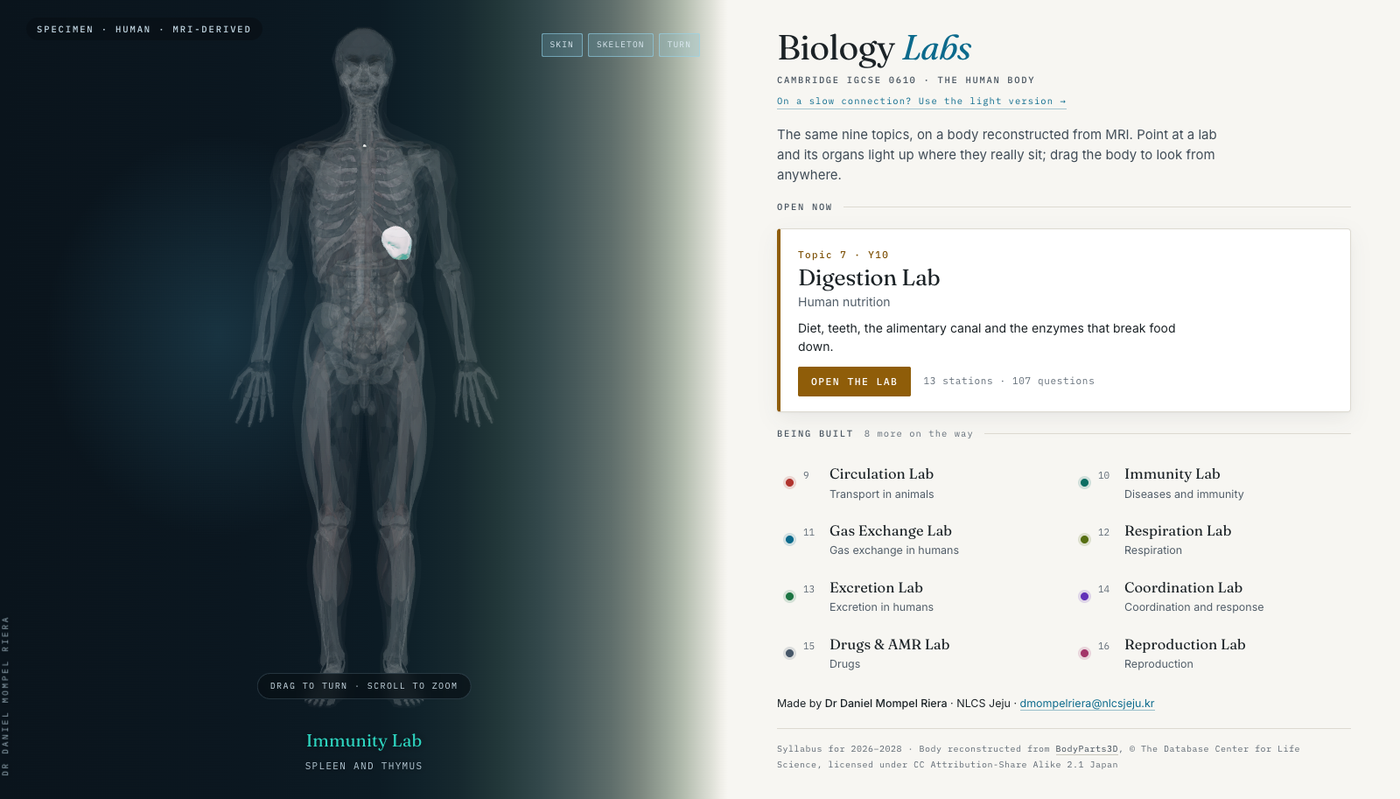
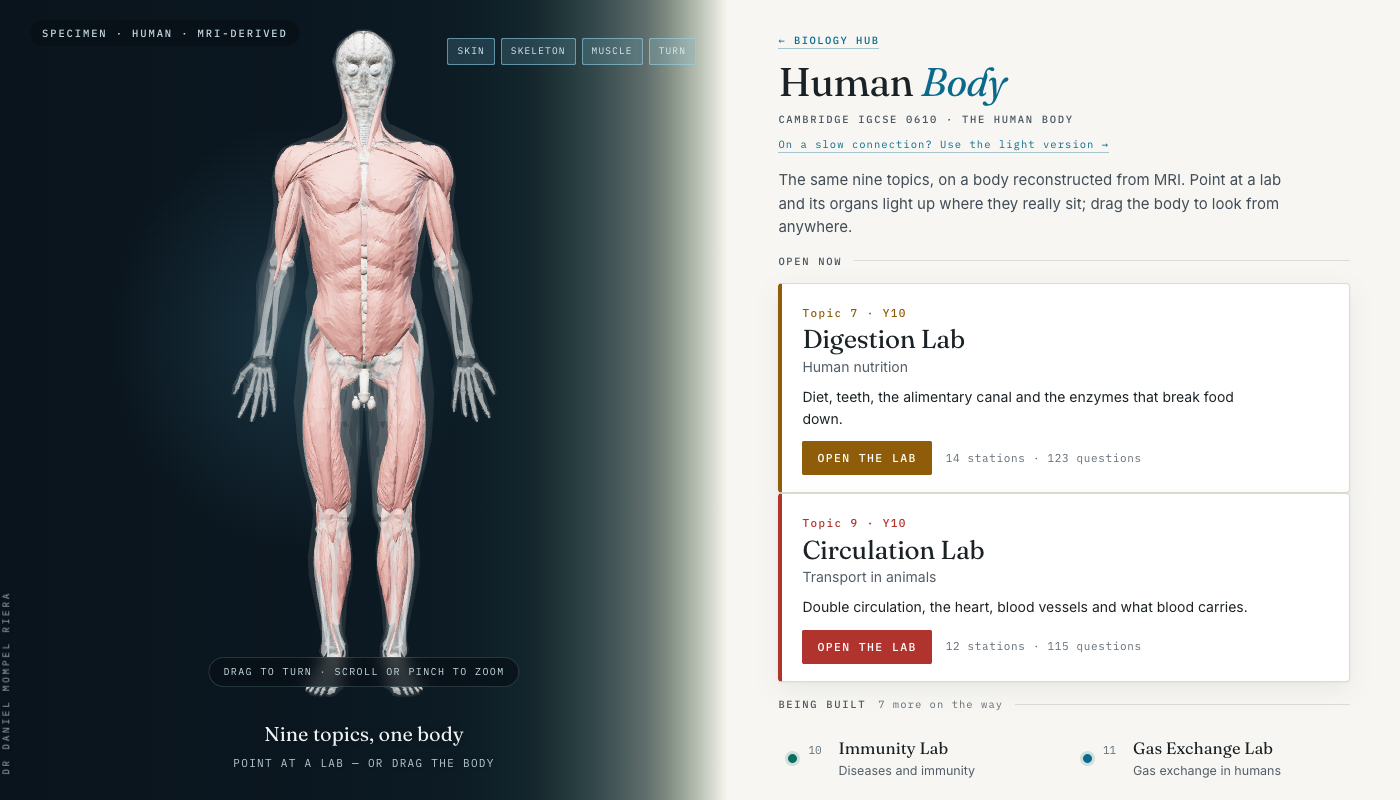
Human Body: its own name, three.js pinned by its hashes, pinch to zoom
- The heading says "Human Body" (it said "Biology Labs"), on both pages
  (Daniel, 1 Oct 2026).
- Security (1 Oct 2026): three.js comes from jsDelivr, and the import map now
  carries each of its five files' SHA-384, so a changed file is refused instead
  of run. The light version still works if that ever happens.
- The 3D hint says "Drag to turn · scroll or pinch to zoom" (a finger cannot
  scroll to zoom); the Circulation Lab is listed as live.
- README pictures retaken; the model-build inputs downloaded for a rebuild are
  ignored by git.

diff --git a/index.html b/index.html
@@ -12,7 +12,7 @@
 <link rel="preconnect" href="https://fonts.googleapis.com">
 <link rel="preconnect" href="https://fonts.gstatic.com" crossorigin>
 <link rel="stylesheet" href="https://fonts.googleapis.com/css2?family=Fraunces:ital,opsz,wght@0,9..144,300..600;1,9..144,300..600&family=IBM+Plex+Mono:wght@400;500&family=Inter:wght@400;500&display=swap">
-<link rel="stylesheet" href="css/hub.css?v=1790516583">
+<link rel="stylesheet" href="css/hub.css?v=1790781941">
 <style>
   /* the 3D stage replaces the flat plate, everything else is the hub's */
   #stage{position:absolute;inset:0;z-index:1}
@@ -56,7 +56,7 @@
        Give them a band of their own and start the specimen below it. */
     .toggles{top:10px;left:50%;right:auto;transform:translateX(-50%);justify-content:center}
     #stage{top:50px}
-    /* the touch wording is longer than the frame is wide, so let it wrap */
+    /* the hint is longer than a phone's frame is wide, so let it wrap */
     .hint{white-space:normal;max-width:min(86%,300px);text-align:center;line-height:1.6;
           font-size:9.5px;letter-spacing:.1em}
   }
@@ -78,7 +78,7 @@
         <button class="tg" id="tgMus"   aria-pressed="true">Muscle</button>
         <button class="tg" id="tgSpin"  aria-pressed="true">Turn</button>
       </div>
-      <span class="hint">Drag to turn · scroll to zoom</span>
+      <span class="hint">Drag to turn · scroll or pinch to zoom</span>
     </div>
 
       <span class="wm" aria-hidden="true">Dr Daniel Mompel Riera</span>
@@ -88,7 +88,7 @@
   <section class="sheet">
     <header class="masthead">
       <a class="up" href="https://nlcsbiology.com/biology-hub/" title="Every door: Foundations, the human body, Plants, Life on Earth">← Biology Hub</a>
-      <h1>Biology <em>Labs</em></h1>
+      <h1>Human <em>Body</em></h1>
       <span class="eyebrow">Cambridge IGCSE 0610 · the human body</span>
       <a class="switch" href="plate.html">On a slow connection? Use the light version</a>
     </header>
@@ -113,15 +113,25 @@
 
 <div class="toast" id="toast" role="status" aria-live="polite"></div>
 
-<script src="js/data/labs.js?v=1790516583"></script>
-<script src="js/progress.js?v=1790516583"></script>
-<script src="js/topics.js?v=1790516583"></script>
+<script src="js/data/labs.js?v=1790781941"></script>
+<script src="js/progress.js?v=1790781941"></script>
+<script src="js/topics.js?v=1790781941"></script>
+<!-- three.js, from jsDelivr. "integrity" holds each file's SHA-384, for every file the 3D body loads (GLTFLoader also
+     loads utils/BufferGeometryUtils.js): a browser refuses a file that differs, and the light version still works.
+     A new version needs new hashes: curl -s <address> | openssl dgst -sha384 -binary | openssl base64 -A -->
 <script type="importmap">
 {"imports":{
   "three":"https://cdn.jsdelivr.net/npm/three@0.160.0/build/three.module.js",
   "three/addons/":"https://cdn.jsdelivr.net/npm/three@0.160.0/examples/jsm/"
+},
+"integrity":{
+  "https://cdn.jsdelivr.net/npm/three@0.160.0/build/three.module.js":"sha384-61S/Nu32S3E5+n+KpCOTb2eRYps6fVKm+9Gz1QBvSePFthb46f063Aa/qe/lykFZ",
+  "https://cdn.jsdelivr.net/npm/three@0.160.0/examples/jsm/loaders/GLTFLoader.js":"sha384-oxY9vSeh7Mrt5WmhN8xfWoDRnmoW9krEiRBY7vJKaK90jMUidM0fhbUwcblpBgTu",
+  "https://cdn.jsdelivr.net/npm/three@0.160.0/examples/jsm/utils/BufferGeometryUtils.js":"sha384-jHGXS4+FuVOBnZkNme2ury3Ccg5DWDLYK22xX/WGdZCZsjRM4J+3n6Qc4CXx1Hjf",
+  "https://cdn.jsdelivr.net/npm/three@0.160.0/examples/jsm/controls/OrbitControls.js":"sha384-qlO/ZugKPxAQUAvTlQoo0QECzxJIJySZmCF/DHdb2Xn/hHndFwX/vfUAC9Hbk6LP",
+  "https://cdn.jsdelivr.net/npm/three@0.160.0/examples/jsm/environments/RoomEnvironment.js":"sha384-ZGqh+dJjt6z9NHsWYYt+TPDFj8y+2If7naI6a6AkkyNZyH51CVS3HTWFh0njp4k6"
 }}
 </script>
-<script type="module" src="js/body3d.js?v=1790516583"></script>
+<script type="module" src="js/body3d.js?v=1790781941"></script>
 </body>
 </html>

diff --git a/plate.html b/plate.html
@@ -12,7 +12,7 @@
 <link rel="preconnect" href="https://fonts.googleapis.com">
 <link rel="preconnect" href="https://fonts.gstatic.com" crossorigin>
 <link rel="stylesheet" href="https://fonts.googleapis.com/css2?family=Fraunces:ital,opsz,wght@0,9..144,300..600;1,9..144,300..600&family=IBM+Plex+Mono:wght@400;500&family=Inter:wght@400;500&display=swap">
-<link rel="stylesheet" href="css/hub.css?v=1790516583">
+<link rel="stylesheet" href="css/hub.css?v=1790781941">
 </head>
 <body>
 
@@ -427,7 +427,7 @@
 
     <header class="masthead">
       <a class="up" href="https://nlcsbiology.com/biology-hub/" title="Every door: Foundations, the human body, Plants, Life on Earth">← Biology Hub</a>
-      <h1>Biology <em>Labs</em></h1>
+      <h1>Human <em>Body</em></h1>
       <span class="eyebrow">Cambridge IGCSE 0610 · the human body</span>
       <a class="switch" href="index.html">See the body in 3D</a>
     </header>
@@ -454,9 +454,9 @@
 
 <div class="toast" id="toast" role="status" aria-live="polite"></div>
 
-<script src="js/data/labs.js?v=1790516583"></script>
-<script src="js/progress.js?v=1790516583"></script>
-<script src="js/topics.js?v=1790516583"></script>
-<script src="js/hub.js?v=1790516583"></script>
+<script src="js/data/labs.js?v=1790781941"></script>
+<script src="js/progress.js?v=1790781941"></script>
+<script src="js/topics.js?v=1790781941"></script>
+<script src="js/hub.js?v=1790781941"></script>
 </body>
 </html>

diff --git a/js/topics.js b/js/topics.js
@@ -1,8 +1,10 @@
 /* ============================================================
    Human Body Hub — the topic register
    ------------------------------------------------------------
-   THIS IS THE ONLY FILE YOU EDIT WHEN A NEW LAB IS FINISHED.
-   Give the topic a `url`, change `status` to "live", done.
+   WHEN A NEW LAB IS FINISHED, this is the file to edit HERE: give the topic a `url` and
+   change `status` to "live". The lab also needs its row in labs-shared/labs.json, the front
+   door's js/shelves.js, the labs script's LABS and the sitemap: docs/BUILD-NOTES.md,
+   "Adding a lab", has the list.
 
    id      unique key
    no      Cambridge 0610 topic number, as taught here

diff --git a/css/hub.css b/css/hub.css
@@ -1,5 +1,5 @@
 /* ============================================================
-   Biology Labs — the hub
+   Human Body Hub — the shelf
    Left: the specimen, on dark, so the lit organ carries.
    Right: paper, where the reading happens.
    The two are one surface — the ground slides from ink to paper

diff --git a/docs/BUILD-NOTES.md b/docs/BUILD-NOTES.md
@@ -1,6 +1,6 @@
 # Human Body Hub — the shelf
 
-The landing page for the IGCSE Biology revision labs.
+One shelf of the Biology Hub: topics 7 and 9–16 of IGCSE 0610 on the human body.
 
 The screen is one surface, split in two: on the left the specimen lies on a dark
 slab so a lit organ actually glows; on the right it dissolves into paper, where
@@ -15,8 +15,8 @@ the flat plate at `/plate.html`.
 
 ## Adding a lab
 
-Edit **`js/topics.js`**. Nothing else. Give the topic a `url` and set
-`status: 'live'`:
+In this repository, edit **`js/topics.js`**: give the topic a `url` and set
+`status: 'live'` (its `detail` is only a fallback — the size comes from the register):
 
 ```js
 { id:'circulation', no:9, year:'Y10', side:'l', sys:'circulation', anchor:'o-heart',
@@ -34,8 +34,21 @@ Edit **`js/topics.js`**. Nothing else. Give the topic a `url` and set
 
 Each system has **two** colours in `css/hub.css`: `--g-<system>` is the glow on
 the dark side, `--i-<system>` is the same hue made readable on paper. Add both.
-If the anchor is a new organ, give it a display name in the `LANDMARK` map in
-`js/hub.js` so the pinned label reads properly.
+All nine systems have theirs already. A new SYSTEM (not a new organ) also needs a
+`LANDMARK` entry in `js/hub.js`, and `LANDMARK` and `GLOW` entries in `js/body3d.js`;
+a new anchor organ needs only its `o-<organ>` id in `body.svg`.
+
+Outside this repository, a new lab also needs:
+
+1. its row in `labs-shared/labs.json` — the lab's own build writes its station and
+   question counts there; then `node tools/stamp.mjs` here copies it in;
+2. on the front door (biology-hub `js/shelves.js`): the shelf door's `detail`
+   ("2 labs open · 7 being built") and an entry in `open`, then that repository's
+   `tools/deploy.mjs`;
+3. a row in the labs script's `LABS` (biology-hub `apps-script/Code.gs`), which
+   Daniel pastes;
+4. the sitemap (`root-site/sitemap.xml`) and `PUBLISHED` in the workspace's
+   `tools/status.mjs`.
 
 ---
 
@@ -45,13 +58,14 @@ If the anchor is a new organ, give it a display name in the `LANDMARK` map in
 drawing of one. Every organ carries `data-sys` (its system) and an
 `id` of `o-<organ>`, so CSS can light one system and dim the rest.
 
-The plate is **inlined into `index.html`** so the page works even when it is
-opened straight from the file system, with no web server. After editing
-`body.svg`, run:
-
-```
-python3 tools/inline-plate.py
-```
+The plate is **inlined into `plate.html`** (between its `PLATE:START` and
+`PLATE:END` markers) so that page works even when it is opened straight from the
+file system, with no web server. `index.html` is the 3D body and has no plate.
+After editing `body.svg`, the plate in `plate.html` has to be replaced with it.
+`tools/inline-plate.py` was written to do that, but it still opens `index.html`,
+finds no markers and stops (a known fault, not yet fixed): until it is pointed at
+`plate.html`, copy the new SVG between the markers by hand, then run
+`node tools/stamp.mjs`.
 
 Organ paintings live in `assets/anatomy/organs/` as separate PNGs, positioned
 by the SVG at their true anatomical coordinates.
@@ -69,12 +83,16 @@ Keep the footer credit if you add more Servier art.
 
 ## Publishing
 
-The hub is a plain static site — no build step beyond `inline-plate.py`. It is
-published from the **`human-body-hub`** repository, `main` branch, by GitHub
-Pages:
+The hub is a plain static site. Before every push run `node tools/stamp.mjs`: it
+writes every `?v=` in `index.html` and `plate.html`, and `version.txt`, from one
+value (leaving `body.glb?v=` alone: re-downloading 9 MB on every deploy is not
+free), and copies in `labs-shared/labs.json` and `progress.js`. Never bump the
+stamps by hand. It is published from the **`human-body-hub`** repository, `main`
+branch, by GitHub Pages:
 
 - `nlcsbiology.com/human-body-hub/` → this hub
-- `nlcsbiology.com/digestion-lab/` → the first lab
+- `nlcsbiology.com/digestion-lab/` → topic 7, the first lab
+- `nlcsbiology.com/circulation-lab/` → topic 9
 - `nlcsbiology.com/<next-lab>/` → each one after that
 
 Each lab is its own repository. They are linked by absolute URL in both
@@ -91,14 +109,19 @@ index.html                the front door: the 3D body
 plate.html                the light version: the flat anatomical plate,
                           inlined so it also opens from the file system
 css/hub.css               design tokens, the plate treatment, the index
-js/topics.js              THE TOPIC REGISTER — the file you edit
+js/topics.js              the topic register (see Adding a lab)
 js/hub.js                 plate.html: list, hotspots, lighting, pinned label, idle tour
 js/body3d.js              index.html: the 3D scene, picking, lighting, idle tour
-assets/model/body.glb     the MRI body, 40 organ groups
+js/progress.js            GENERATED by tools/stamp.mjs: a copy of labs-shared/progress.js
+js/data/labs.js, .json    GENERATED by tools/stamp.mjs from labs-shared/labs.json
+assets/model/body.glb     the MRI body: 42 organ groups plus skin and skeleton
+assets/model/body_manifest.json  what build_glb.py put in it (no page reads it)
 .nojekyll                 stops GitHub Pages running the files through Jekyll
 assets/anatomy/body.svg   the specimen (source of the inlined plate)
 assets/anatomy/organs/    the organ paintings
-tools/inline-plate.py     re-inlines body.svg into index.html
+tools/stamp.mjs           the step before every push (see Publishing)
+tools/inline-plate.py     meant to re-inline body.svg into plate.html (see The anatomical plate)
+tools/model-build/        rebuilds body.glb (its README has the steps)
 
 README.md                 the front page
 docs/link-back.md         the one line that points a lab back here
@@ -127,13 +150,14 @@ It cannot be opened by double-clicking the file, because browsers block module
 scripts and model loading from `file://`. `plate.html` can.
 
 ### Where the body comes from
-`assets/model/body.glb` (6.2 MB, 345,000 triangles, 40 organ groups) is built
+`assets/model/body.glb` (8.9 MB, about 516,000 triangles, 42 organ groups plus
+skin and skeleton) is built
 from **BodyParts3D v3.0** — 3D models segmented from a real full-body MRI by
 the Database Center for Life Science in Japan. Every organ is a separate mesh
 and they all share one coordinate frame, so nothing is positioned by hand: each
 organ sits where it was measured in the body it came from.
 
-Rebuild it with the scripts in the scratch pipeline (`manifest.py`,
+Rebuild it with `tools/model-build/` (steps in its README: `manifest.py`,
 `build_glb.py`); `manifest.py` lists every structure by its FMA identifier, so
 the selection can be checked against the Foundational Model of Anatomy rather
 than taken on trust.
@@ -150,7 +174,7 @@ than taken on trust.
 
 ### What this dataset does not contain
 - **It is a male body.** There are no ovaries, uterus or oviducts, so Topic 16
-  shows the male reproductive system only. The flat plate on `index.html` has
+  shows the male reproductive system only. The flat plate (`plate.html`) has
   the female organs (from Servier).
 - **No spinal cord** — only the central canal, which would be misleading to
   label as the cord, so it is left out. Topic 14 shows brain, eyes, optic

diff --git a/README.md b/README.md
@@ -17,7 +17,7 @@ by **Dr Daniel Mompel Riera** · NLCS Jeju
 
 </div>
 
-![The hub: a body reconstructed from MRI, with the gas exchange system lit](docs/img/hub-3d.png)
+![The hub: a body reconstructed from MRI, its muscles over the skeleton, beside the labs that are open](docs/img/hub-3d.png)
 
 ---
 
@@ -30,7 +30,7 @@ the page goes back up.
 | # | Topic | Lab | |
 |:--:|-------|-----|:--:|
 | 7 | Human nutrition | [**Digestion Lab**](https://nlcsbiology.com/digestion-lab/) | 🟢 live |
-| 9 | Transport in animals | Circulation Lab | ⚪ soon |
+| 9 | Transport in animals | [**Circulation Lab**](https://nlcsbiology.com/circulation-lab/) | 🟢 live |
 | 10 | Diseases and immunity | Immunity Lab | ⚪ soon |
 | 11 | Gas exchange in humans | Gas Exchange Lab | ⚪ soon |
 | 12 | Respiration | Respiration Lab | ⚪ soon |
@@ -53,27 +53,34 @@ Chromebook or a school PC.
 ## What is on the page
 
 **The 3D body** — `index.html` — reconstructed from a real MRI scan. Turn it, zoom, and peel
-back skin, skeleton and muscle to reach what lies underneath. 6 MB.
+back skin, skeleton and muscle to reach what lies underneath. 9 MB.
 
 **The flat plate** — `plate.html` — the same nine topics on an anatomical drawing, a few hundred
 kilobytes, for a slow connection or an old device.
+
+![The light version: a flat anatomical plate of the body beside the same labs](docs/img/hub-plate.png)
 
 Left alone, the plate tours the systems by itself, so anyone glancing at the screen sees what
 the body does.
 
 ## For developers
 
-Static files, no build step, no framework.
+Static files, no framework. The one build step is `node tools/stamp.mjs`, before every push.
 
-- **`js/topics.js` is the register** — the only file to edit when a lab is finished. Give the
-  topic a `url`, change `status` to `live`, done. Each entry carries the organ system to light
-  (`sys`) and the organ a label points at (`anchor`).
+- **`js/topics.js` is the topic register.** When a lab is finished, give its topic a `url` and
+  change `status` to `live`. Each entry carries the organ system to light (`sys`) and the organ a
+  label points at (`anchor`). A new lab also needs its row in `labs-shared/labs.json` (its size
+  comes from there), its door on the front door (biology-hub `js/shelves.js`) and a sitemap entry;
+  `docs/BUILD-NOTES.md` has the list.
 - `js/hub.js` reads it and wires the paper side to the specimen. `js/body3d.js` renders the
-  3D body; `plate.html` holds the inlined SVG (`tools/inline-plate.py` puts it there).
+  3D body; `plate.html` holds the plate (`assets/anatomy/body.svg`) inlined.
 - `css/hub.css` is the whole style. `docs/BUILD-NOTES.md` has the detail, and
   `docs/link-back.md` is the recipe for a lab's link back up here.
 
-Bump `version.txt` **and** every `?v=` stamp together — the stamps are the real cache key.
+Before every push, run `node tools/stamp.mjs`. It writes every `?v=` in `index.html` and
+`plate.html`, and `version.txt`, from one value (the stamps are the real cache key), leaving
+`body.glb?v=` alone on purpose; and it copies in `labs-shared/labs.json` and `progress.js`.
+Never bump the stamps by hand.
 
 ## Sources and licences
 

diff --git a/docs/link-back.md b/docs/link-back.md
@@ -4,20 +4,27 @@ The hub links **out** to every live lab on its own — that comes from `url` in
 `js/topics.js` and needs nothing at the lab's end.
 
 For a lab to link **back**, add one line to that lab's `index.html`, inside
-`.hdr__stats` and before the "How to use" button. It reuses the Digestion Lab's
-existing `.hbtn` class, so no CSS changes are needed:
+`.hdr__stats` and before the "How to use" button — one level up, to this shelf.
+It reuses the labs' `.hbtn` class, so no CSS changes are needed:
 
 ```html
 <a class="hbtn" href="https://nlcsbiology.com/human-body-hub/"
-   title="All of the Biology Labs">← All labs</a>
+   title="The human body: every body topic, and this lab">← The body</a>
 ```
 
-**Done in `digestion-lab`** (in the header, and again in the footer line "One of
-the Biology Labs"). This page is the recipe for the next lab.
+and end the footer with the shelf, then the front door:
 
-Remember the two rules the lab repositories run on: bump `version.txt` and the
-`?v=` stamps in the same commit, and never copy `stations.master.js` into the
-repo.
+```html
+One of the <a href="https://nlcsbiology.com/human-body-hub/">Human Body</a> labs ·
+<a href="https://nlcsbiology.com/biology-hub/">Biology Hub</a>
+```
+
+**The Circulation Lab is the example** (`circulation-lab/index.html`); the
+Digestion Lab follows it too (since 30 Sep 2026).
+
+Remember the two rules the lab repositories run on: never bump `version.txt` or
+the `?v=` stamps by hand — the lab's own `node tools/build.mjs` writes them — and
+never copy `stations.master.js` into the repo.
 
 ## Why this is written down rather than applied from here
 

diff --git a/tools/model-build/README.md b/tools/model-build/README.md
@@ -9,9 +9,17 @@ To rebuild `assets/model/body.glb`:
 2. Download the meshes named in the manifest from the BodyParts3D mirror into
    a `stl/` folder beside these scripts:
    `https://raw.githubusercontent.com/Kevin-Mattheus-Moerman/BodyParts3D/main/assets/BodyParts3D_data/stl/<FMAID>.stl`
-3. `python3 build_glb.py` — decimates each organ to its triangle budget, colours
+3. `resolve.py`, which `build_glb.py` imports, also reads two files that are NOT
+   in this repository, from this folder: `parts.txt` (one structure per line:
+   FMA id, a tab, its name) and `composite.txt` (a header line, then parent id,
+   tab, name, tab, child id). They look like BodyParts3D's parts list and its
+   part-of inclusion list; that is not confirmed. Without them the build stops
+   at once. Keep them, and `stl/`, out of git.
+4. `python3 build_glb.py` — decimates each organ to its triangle budget, colours
    it, and writes `body.glb` plus `body_manifest.json`.
-4. Copy `body.glb` into `assets/model/`.
+5. Copy `body.glb` into `assets/model/` (and `body_manifest.json` beside it, as
+   now: no page reads it), then run `node tools/stamp.mjs` and raise the literal
+   `body.glb?v=` in `js/body3d.js`, which the stamp leaves alone.
 
 `stl_named.json` maps every available mesh id to its anatomical name;
 `stl_index.json` gives file sizes. `resolve.py` expands a composite structure
